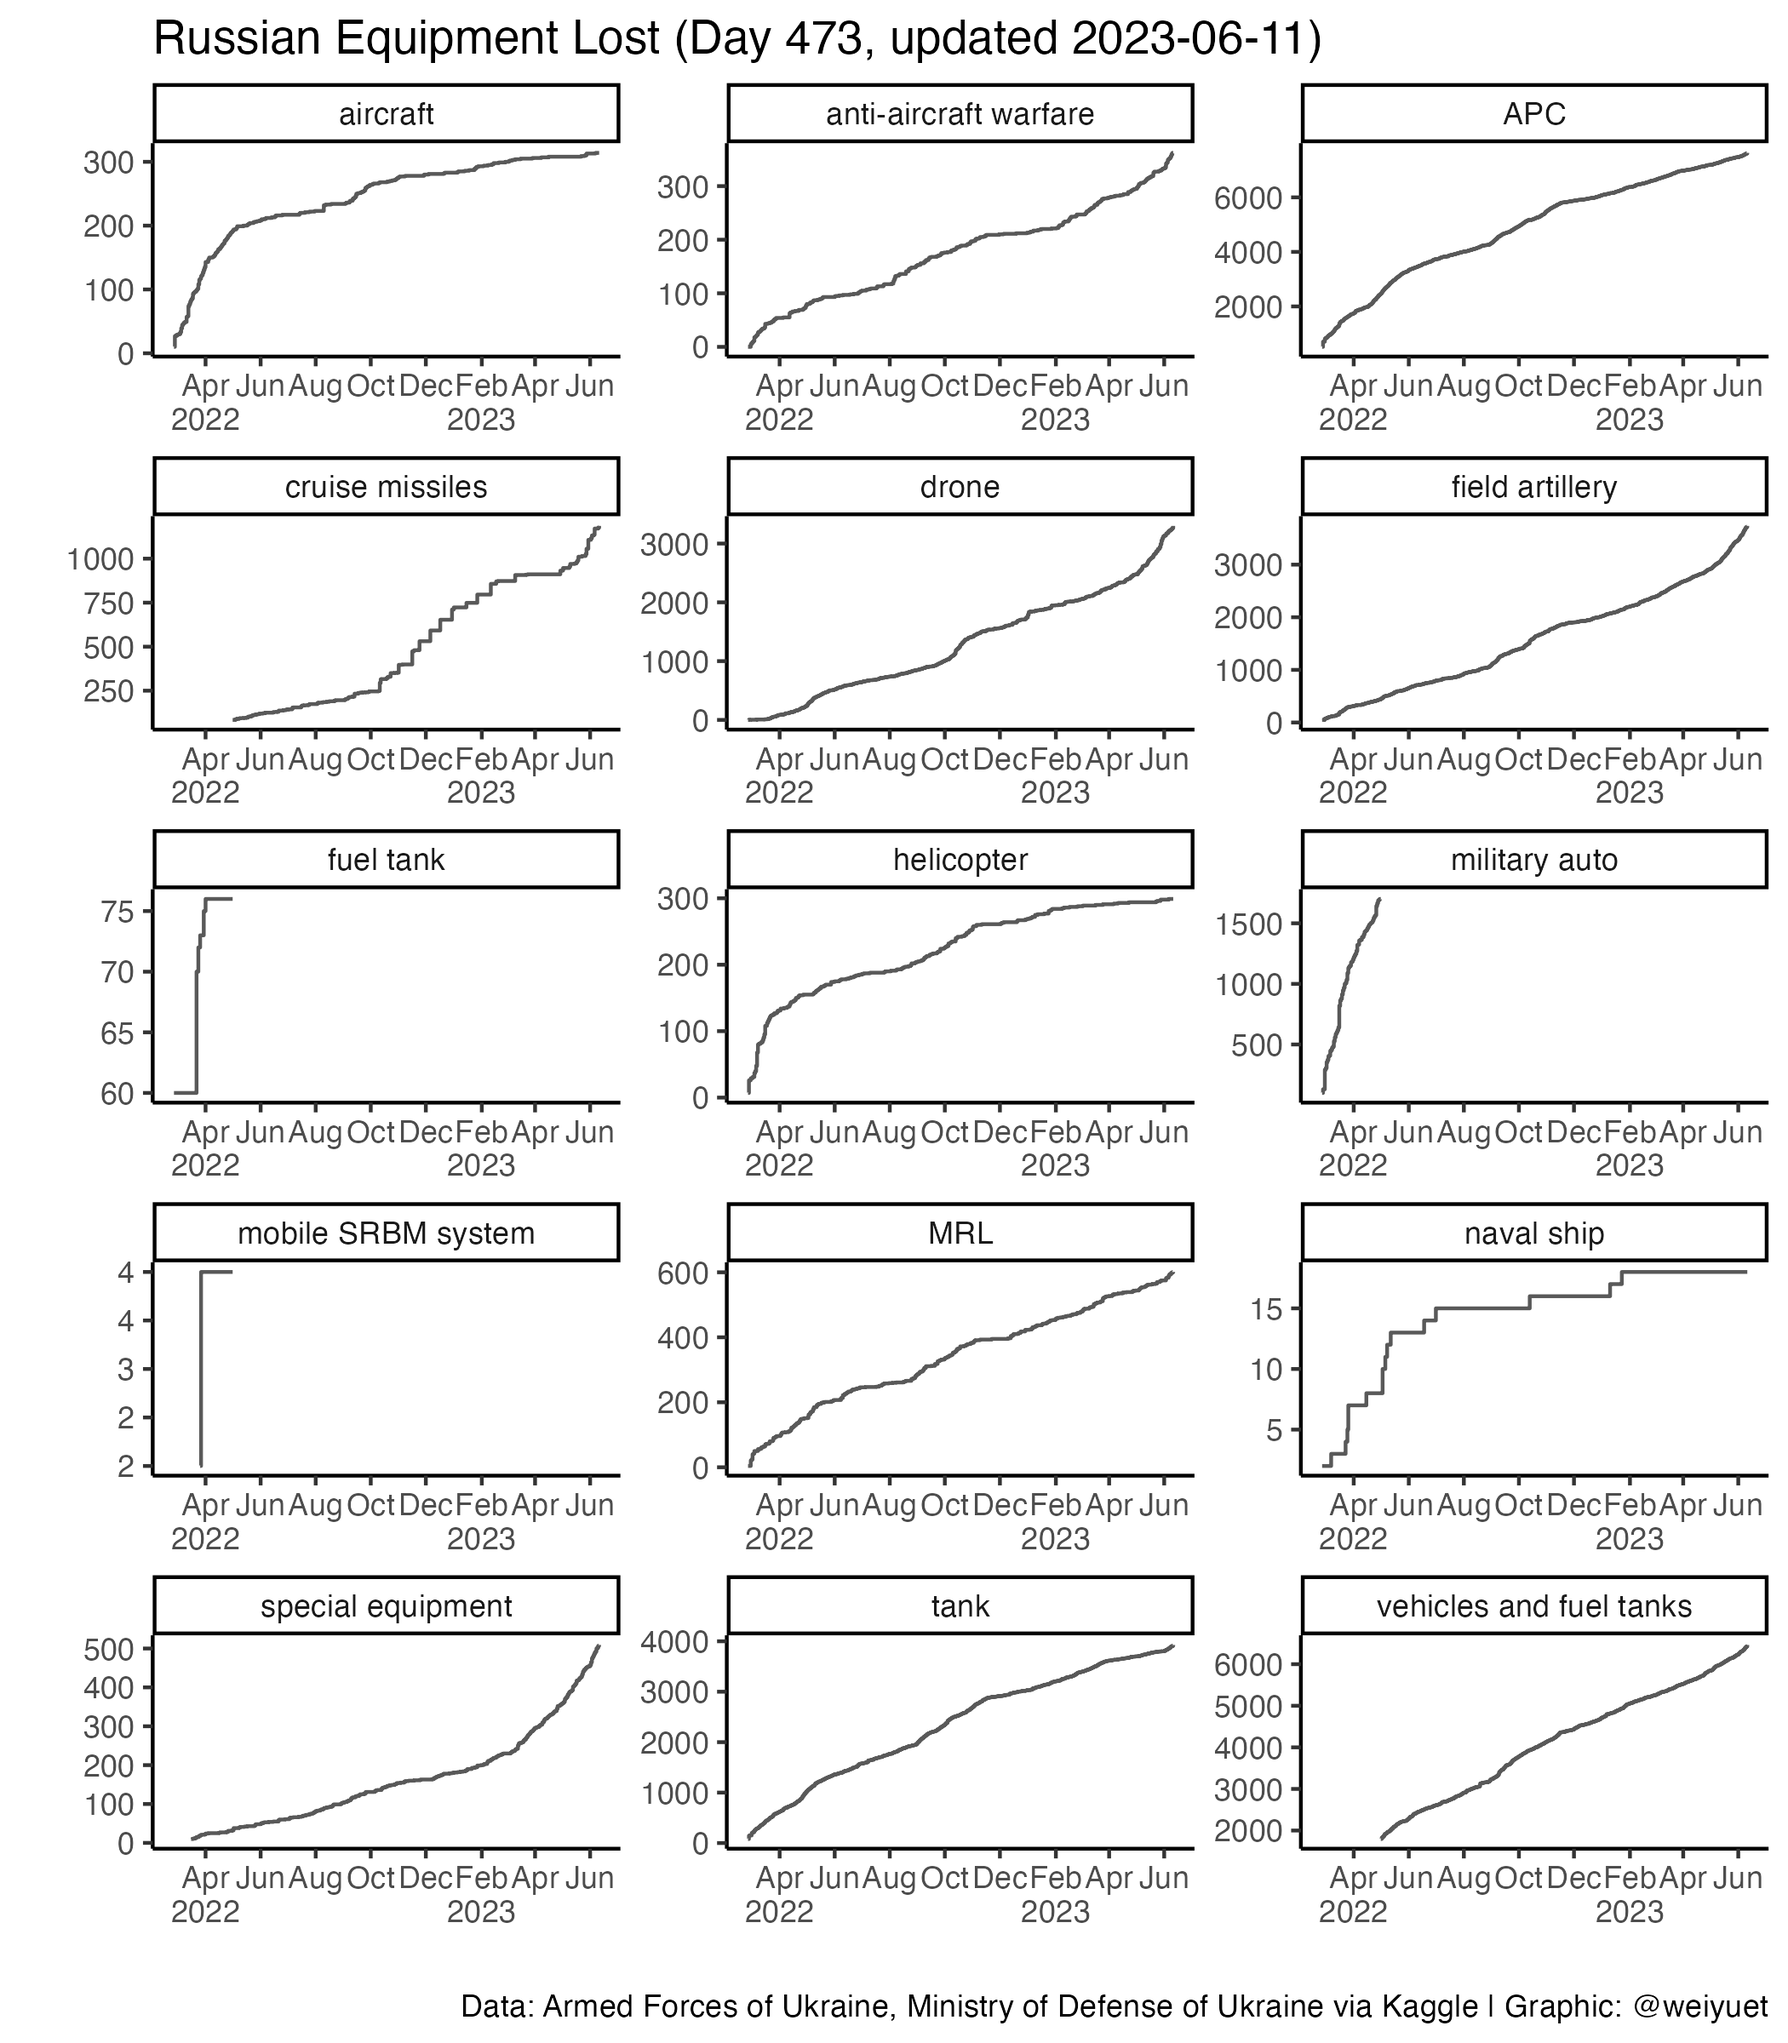
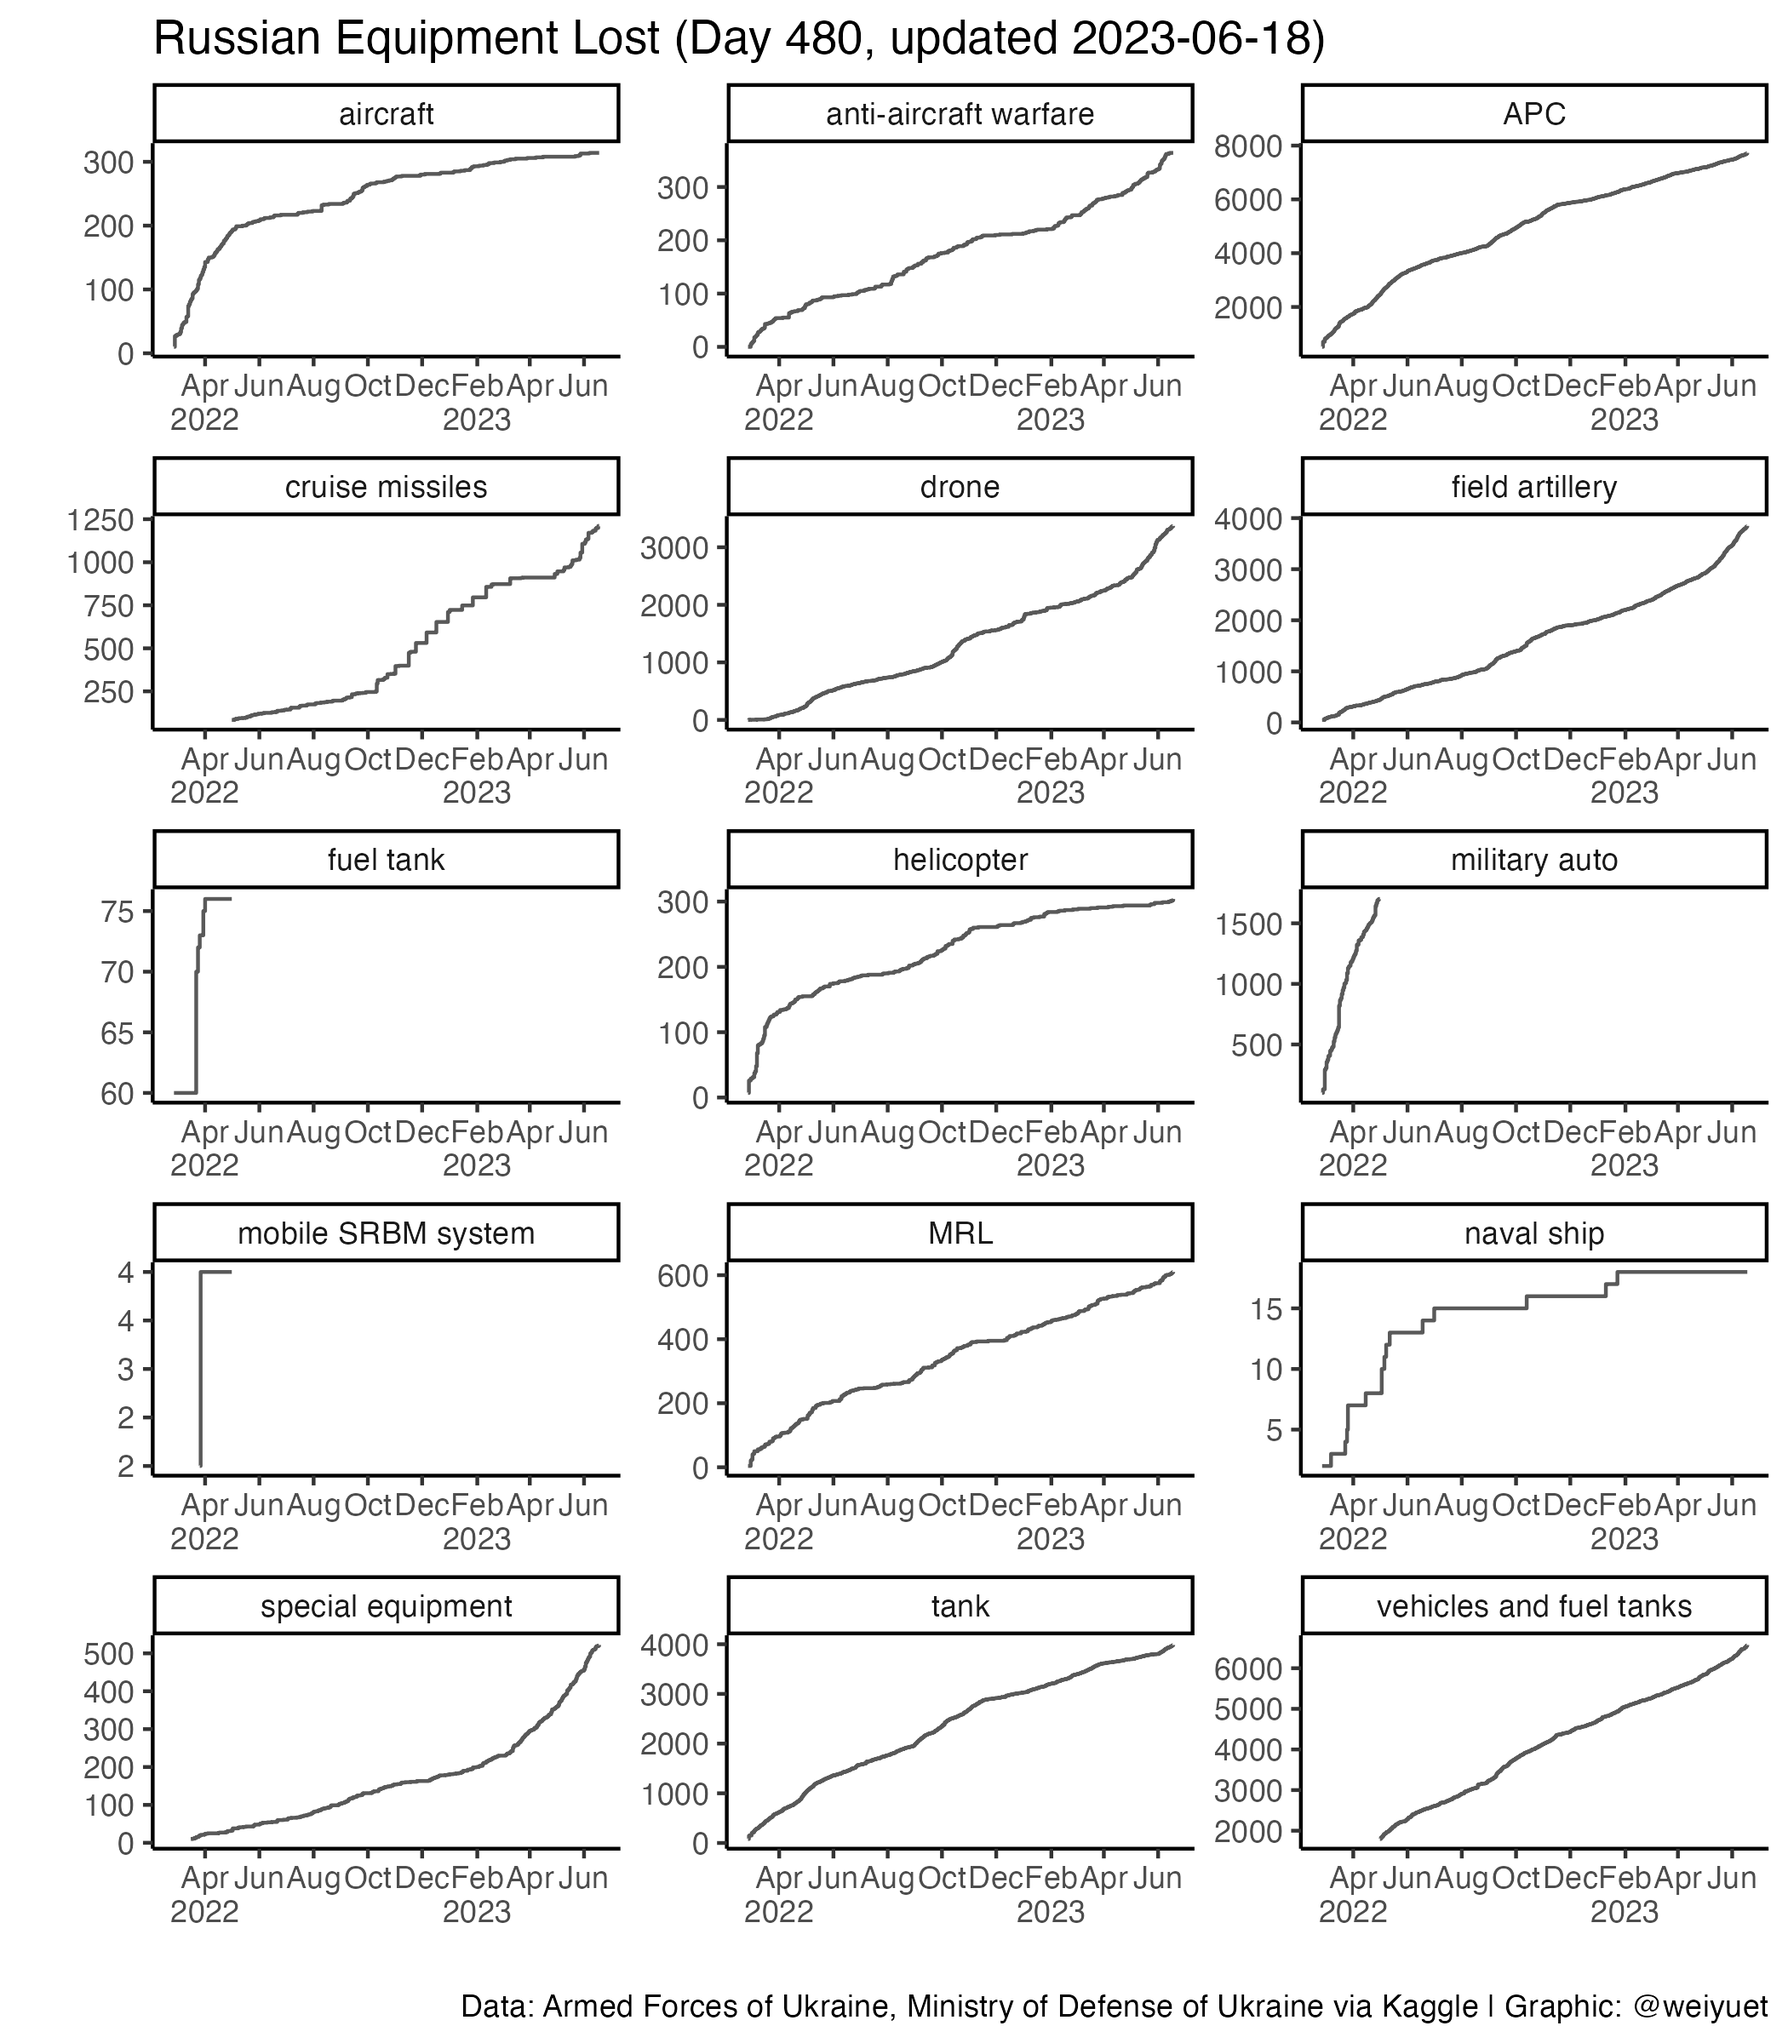
Updated 18 June

diff --git a/README.md b/README.md
@@ -6,7 +6,7 @@ Wong Wei Yuet 2022-05-26
 
   - War casualty data updated daily from [`Petro Ivanyuk's Kaggle`](https://www.kaggle.com/datasets/piterfm/2022-ukraine-russian-war). All data is official and put together by `Petro`
 
-Updated: 2023-06-11
+Updated: 2023-06-18
 
 ## Summary of Conflict
 
